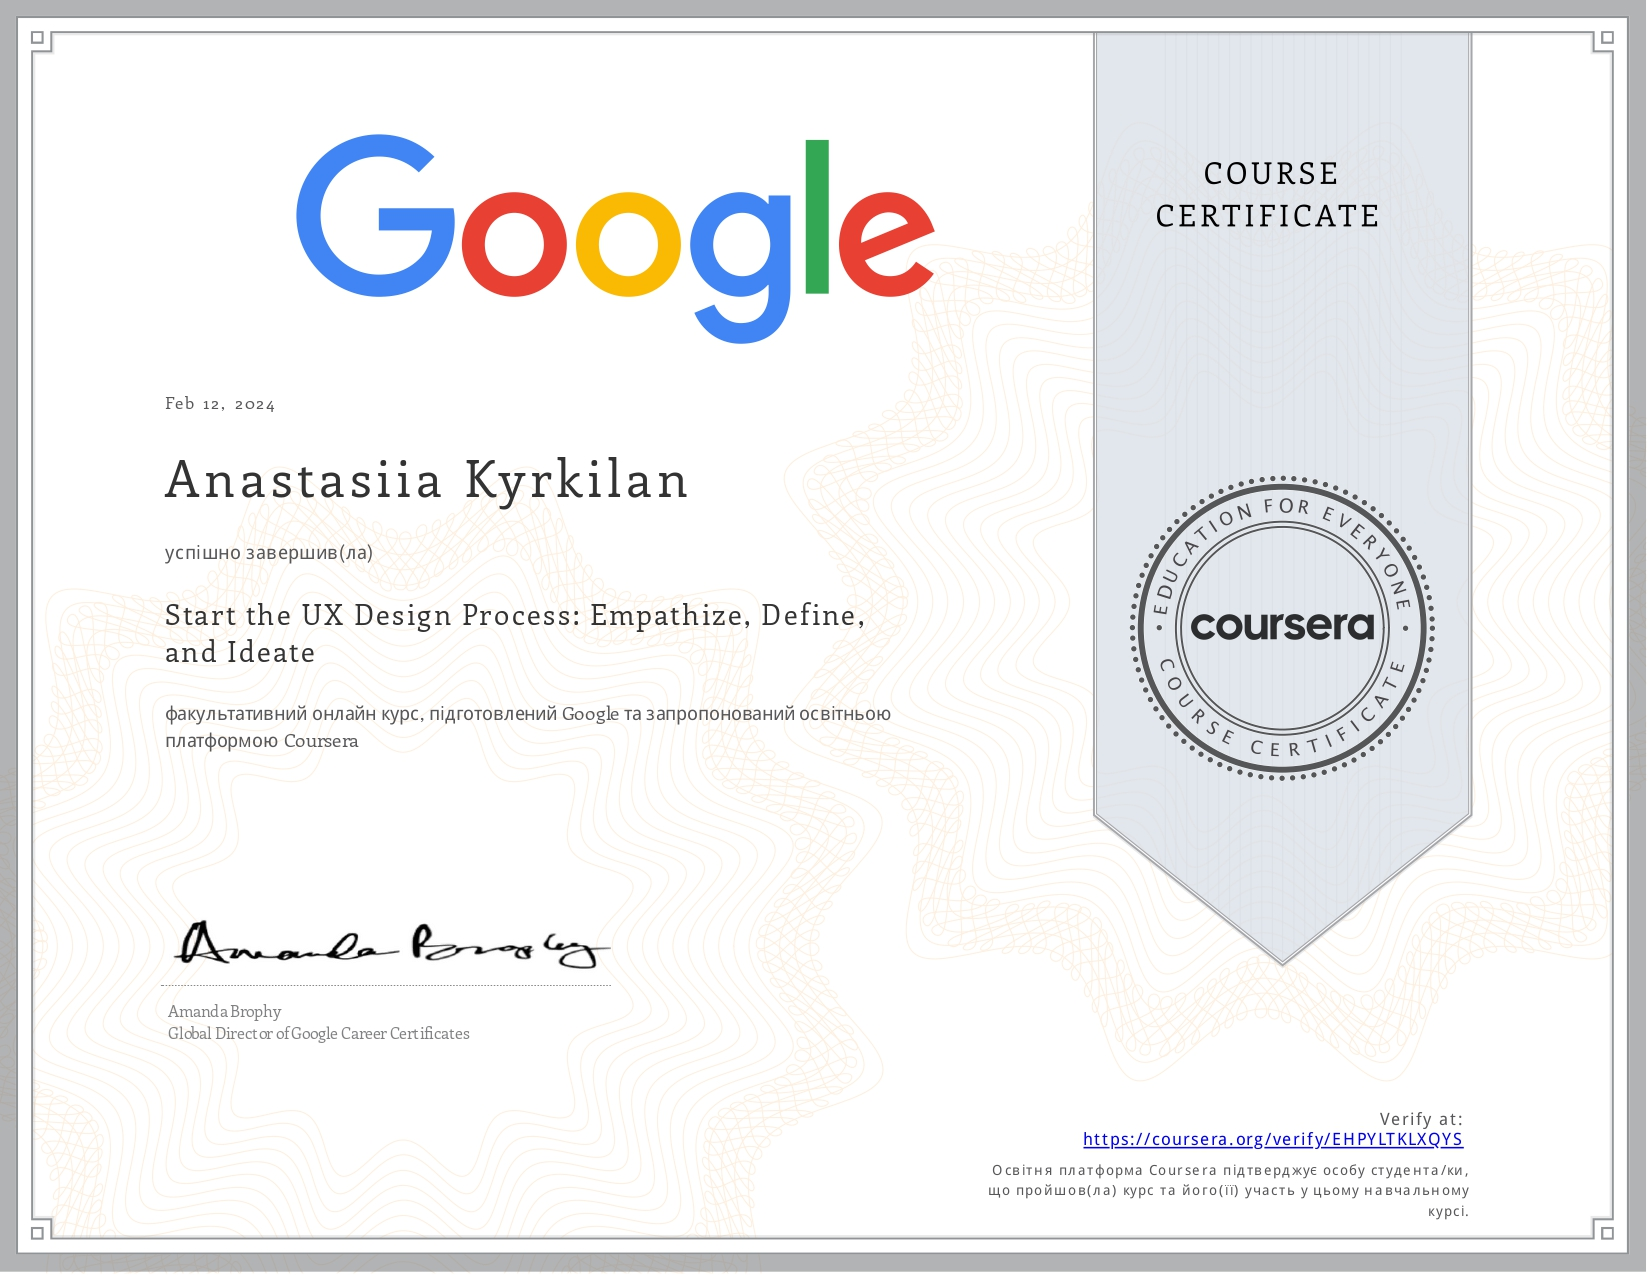
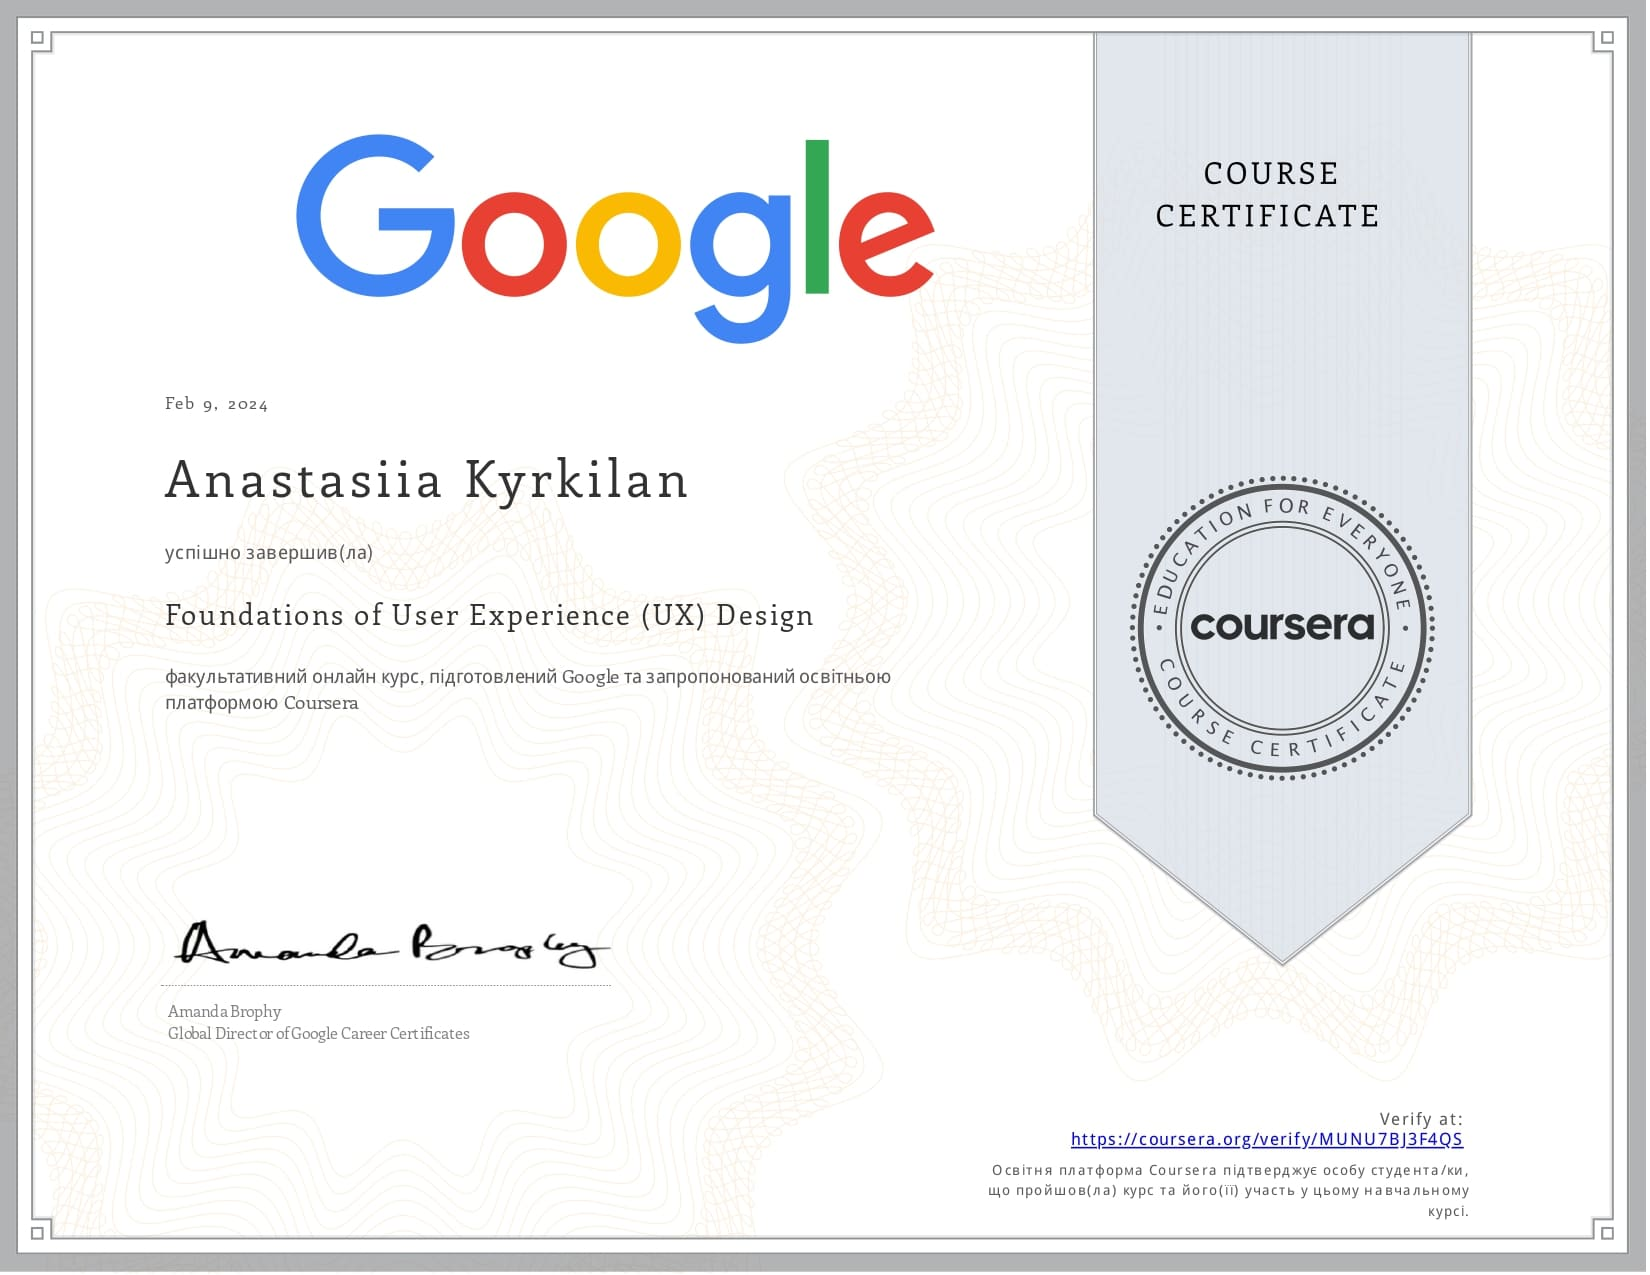
Added certificates content

Changed region(s): [[0.0927, 0.4588, 0.5255, 0.5812], [0.6491, 0.8871, 0.8964, 0.9176], [0.1236, 0.3059, 0.1545, 0.3365]]

diff --git a/src/app.js b/src/app.js
@@ -372,14 +372,49 @@ document.addEventListener("DOMContentLoaded", function () {
 // Library of certificates with details
 
 let certificates = {
-  "Google first": {
-    image: "/img/certificates/Coursera01.jpg",
-    alt: "Google first",
+  "QA Testing": {
+    image: "/img/certificates/QATestLab01.jpg",
+    alt: "QA Testing certificate from QATestLab",
   },
 
-  "Google second": {
+  "GoIT English HTML": {
+    image: "/img/certificates/GoIT01.png",
+    alt: "GoIT English HTML certificate",
+  },
+
+  "SheCodes Introducing to coding": {
+    image: "/img/certificates/SheCodes01.png",
+    alt: "SheCodes Introducing to coding certificate",
+  },
+
+  "SheCodes Web Development": {
+    image: "/img/certificates/SheCodes02.png",
+    alt: "SheCodes Web Development certificate",
+  },
+
+  "SheCodes Responsive Web Development": {
+    image: "/img/certificates/SheCodes03.png",
+    alt: "SheCodes Responsive Web Development certificate",
+  },
+
+  "SheCodes React Development": {
+    image: "/img/certificates/SheCodes04.png",
+    alt: "SheCodes React Development certificate",
+  },
+
+  "Google UX Design Foundations": {
+    image: "/img/certificates/Coursera01.jpg",
+    alt: "Google professional certificate in UX Design: Foundations of UX Design",
+  },
+
+  "Google UX Design Start": {
     image: "/img/certificates/Coursera02.jpg",
-    alt: "Google second",
+    alt: "Google professional certificate in UX Design: Start the process - Empathize, Define and Idiate",
+  },
+
+  "Google UX Design Research": {
+    image: "/img/certificates/Coursera03.jpeg",
+    alt: "Google professional certificate in UX Design: Conduct UX Research and Test Early Concepts",
   },
 };
 
@@ -390,7 +425,7 @@ let certificatesHTML = "";
 
 for (let certificate in certificates) {
   if (certificates.hasOwnProperty(certificate)) {
-    certificatesHTML += `<img src="${certificates[certificate]["image"]}" alt="${certificates[certificate]["alt"]}">`;
+    certificatesHTML += `<img src="${certificates[certificate]["image"]}" alt="${certificates[certificate]["alt"]}" class="img-certificate">`;
   }
 }
 
